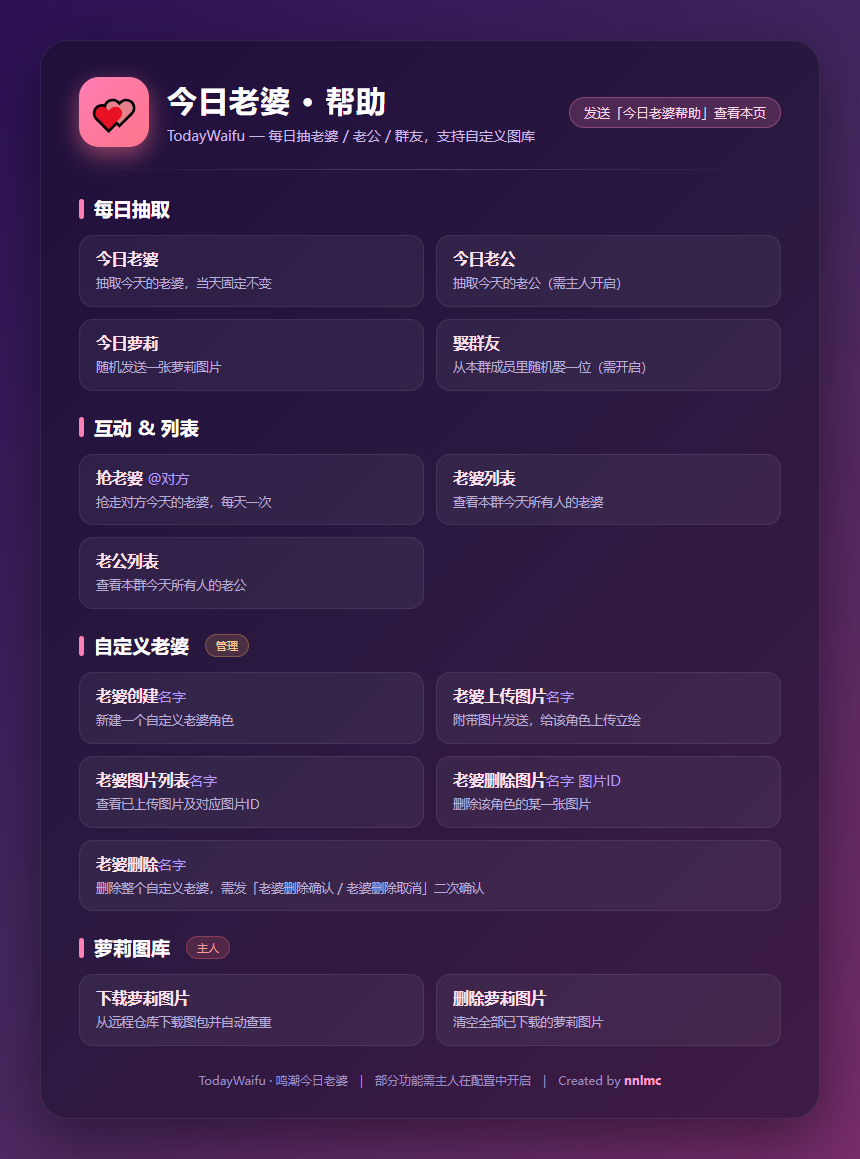
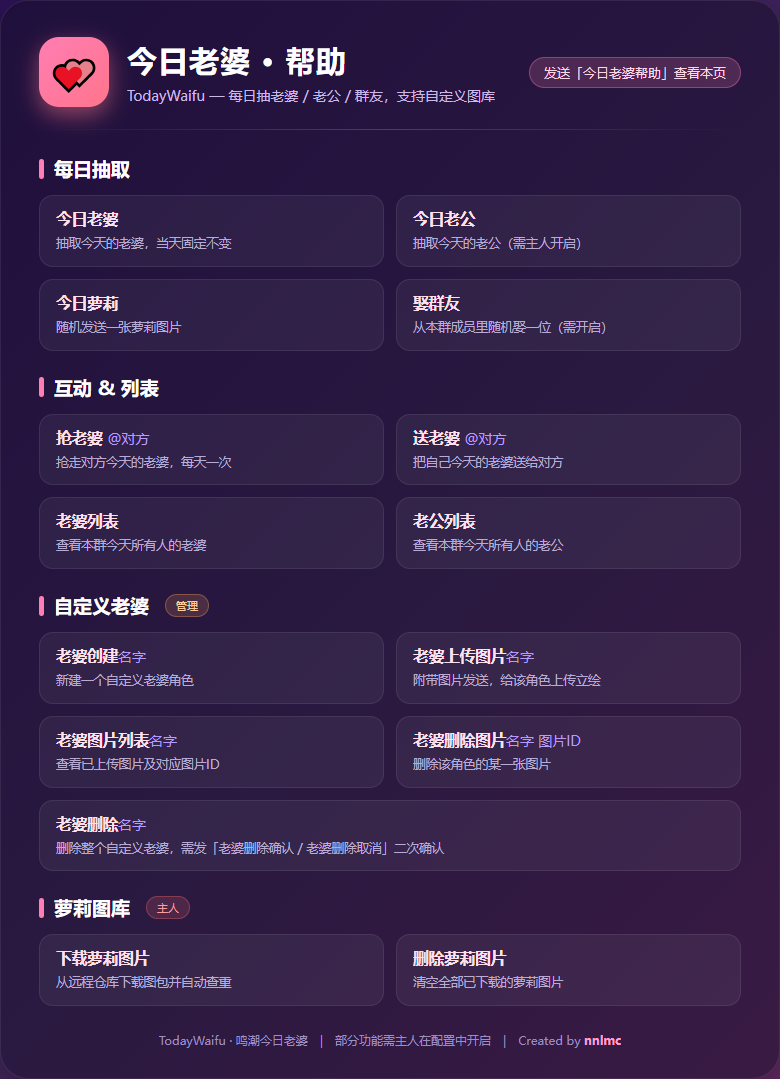
feat: 新增送老婆功能支持将今日老婆赠送给他人

diff --git a/__init__.py b/__init__.py
@@ -1430,6 +1430,14 @@ def _build_rob_success_text(role: RoleCandidate, target_user_id: str) -> str:
     )
 
 
+def _build_gift_success_text(role: RoleCandidate, target_user_id: str) -> str:
+    return str(_cfg('DailyWifeGiftSuccessTemplate') or '你把今天的老婆{name}送给了对方！').format(
+        name=role.name,
+        role_id='/'.join(role.role_ids),
+        target=target_user_id,
+    )
+
+
 def _build_text(role: RoleCandidate, mode: str = 'wife') -> str:
     if mode == 'husband':
         template = str(_cfg('DailyHusbandTextTemplate') or '你今天的老公是{name}')
@@ -1558,6 +1566,8 @@ async def _wife_list_items(ev: Event, mode: str = 'wife') -> tuple[str, list[tup
             order = 0
         if raw_record.get('stolen_by'):
             wife_name = '被抢走了~'
+        elif raw_record.get('gifted_to'):
+            wife_name = '送出去了~'
         else:
             wife_name = record.name
 
@@ -1715,6 +1725,12 @@ async def _send_daily_wife(bot: Bot, ev: Event, mode: str = 'wife', specified_na
             logger.info(f'{LOG_PREFIX} 用户 {ev.user_id} 的老婆已被抢，拒绝分配新角色')
             return await _send_prefixed(bot,f'你的{wife_name}已经被{stolen_by_name}抢走了，今天就先忍忍吧~')
 
+        if isinstance(current_record, dict) and current_record.get('gifted_to'):
+            wife_name = current_record.get('name', '老婆')
+            gifted_to_name = current_record.get('gifted_to_name') or current_record.get('gifted_to')
+            logger.info(f'{LOG_PREFIX} 用户 {ev.user_id} 的老婆已送出，拒绝分配新角色')
+            return await _send_prefixed(bot,f'你的{wife_name}已经送给{gifted_to_name}了，今天就先忍忍吧~')
+
     record: WifeRecord | None = None
 
     if is_debug_active:
@@ -1799,6 +1815,11 @@ async def _send_rob_wife(bot: Bot, ev: Event):
 
     data = _load_wife_data()
     context = _get_today_context(data, ev)
+
+    target_data = context['wives'].get(_user_key(ev, target_user_id))
+    if isinstance(target_data, dict) and target_data.get('gifted_to'):
+        return await _send_prefixed(bot, '对方的老婆已经送出去了，抢不到了哦~')
+
     attempts = context.setdefault('rob_attempts', {})
     is_master = _is_master(ev)
     
@@ -1828,6 +1849,55 @@ async def _send_rob_wife(bot: Bot, ev: Event):
     role = target_record.to_role()
     text = _build_rob_success_text(role, target_user_id)
     await _send_role_image(bot, role, target_record.image, text, robber_id)
+
+
+async def _send_gift_wife(bot: Bot, ev: Event):
+    logger.info(f'{LOG_PREFIX} 用户 {ev.user_id} 在群 {ev.group_id} 发起了送老婆操作')
+    if not _cfg_bool('DailyWifeGiftEnabled', True):
+        return await _send_prefixed(bot, '送老婆功能当前已关闭。')
+
+    target_user_id = _get_event_target_user_id(ev)
+    if not target_user_id:
+        return await _send_prefixed(bot, '要送给谁？请艾特对方或在命令后面写对方 QQ。')
+
+    giver_id = _user_key(ev)
+    if target_user_id == giver_id:
+        return await _send_prefixed(bot, '不能把老婆送给自己哦！')
+
+    giver_record = _get_existing_daily_wife_record(ev, giver_id)
+    if giver_record is None:
+        return await _send_prefixed(bot, '你今天还没有老婆，先去抽一个吧~')
+    if giver_record.record_type == 'member':
+        return await _send_prefixed(bot, '群友老婆不能送出去哦~')
+
+    data = _load_wife_data()
+    context = _get_today_context(data, ev)
+
+    giver_data = context['wives'].get(giver_id)
+    if isinstance(giver_data, dict) and giver_data.get('stolen_by'):
+        return await _send_prefixed(bot, '你的老婆已经被抢走了，没有老婆可以送了~')
+    if isinstance(giver_data, dict) and giver_data.get('gifted_to'):
+        return await _send_prefixed(bot, '你今天已经把老婆送出去了~')
+
+    target_existing = context['wives'].get(target_user_id)
+    if isinstance(target_existing, dict) and target_existing.get('name'):
+        if not target_existing.get('stolen_by') and not target_existing.get('gifted_to'):
+            return await _send_prefixed(bot, '对方今天已经有老婆了，不需要你送哦~')
+
+    logger.info(f'{LOG_PREFIX} 用户 {giver_id} 把老婆送给了 {target_user_id}')
+    context['wives'][target_user_id] = _record_to_dict(giver_record, ev, target_user_id)
+    context['wives'][target_user_id]['gifted_from'] = giver_id
+
+    giver_name = _user_display_name(ev, giver_id)
+    if isinstance(context['wives'].get(giver_id), dict):
+        context['wives'][giver_id]['gifted_to'] = target_user_id
+        context['wives'][giver_id]['gifted_to_name'] = _user_display_name(ev, target_user_id)
+
+    _save_wife_data(data)
+
+    role = giver_record.to_role()
+    text = _build_gift_success_text(role, target_user_id)
+    await _send_role_image(bot, role, giver_record.image, text, giver_id)
 
 
 async def _send_wife_list(bot: Bot, ev: Event, mode: str = 'wife'):
@@ -2077,6 +2147,16 @@ async def rob_wife(bot: Bot, ev: Event):
 @sv.on_fullmatch(('抢老婆', '抢今日老婆', '抢婆娘'), block=True)
 async def rob_wife_at(bot: Bot, ev: Event):
     await _send_rob_wife(bot, ev)
+
+
[email redacted]_prefix(('送老婆', '送今日老婆'), block=True)
+async def gift_wife(bot: Bot, ev: Event):
+    await _send_gift_wife(bot, ev)
+
+
[email redacted]_fullmatch(('送老婆', '送今日老婆'), block=True)
+async def gift_wife_at(bot: Bot, ev: Event):
+    await _send_gift_wife(bot, ev)
 
 
 # 注册到 GsCore 帮助一览页（core帮助）

diff --git a/config_default.py b/config_default.py
@@ -119,4 +119,14 @@ CONFIG_DEFAULT: Dict[str, GSC] = {
         '可用变量：{name} 角色名，{role_id} 数字 ID，{target} 被抢用户 ID',
         '抢老婆成功！你把对方今天的老婆{name}抢过来了！',
     ),
+    'DailyWifeGiftEnabled': GsBoolConfig(
+        '启用送老婆',
+        '开启后可使用「送老婆 @对方」命令，把自己今天的老婆送给对方',
+        True,
+    ),
+    'DailyWifeGiftSuccessTemplate': GsStrConfig(
+        '送老婆成功提示',
+        '可用变量：{name} 角色名，{role_id} 数字 ID，{target} 接收方用户 ID',
+        '你把今天的老婆{name}送给了对方！',
+    ),
 }

diff --git a/README.md b/README.md
@@ -17,6 +17,7 @@
 - `今日萝莉`：从本地萝莉图库随机发一张，与老婆/老公/群友完全独立。
 - `娶群友`：只抽群友，不依赖 XWUID。
 - `抢老婆 @对方`：抢走对方当天抽到的鸣潮角色老婆。
+- `送老婆 @对方`：把自己今天的老婆送给对方。
 - `老婆列表` / `老公列表`：查看本群当天记录。
 - `今日老婆帮助`：发送图文帮助卡片，并注册到 GSCore「core帮助」一览页。
 - 主人命令：创建 / 上传 / 查看 / 删除自定义老婆图片；下载 / 删除萝莉图库。
@@ -32,6 +33,7 @@
 | `今日萝莉` | 从萝莉图库随机发一张 | 需先由主人「下载萝莉图片」 |
 | `娶群友` | 只抽群友 | `DailyWifeMarryGroupMemberEnabled` |
 | `抢老婆 @对方` / `抢今日老婆` / `抢婆娘` | 抢对方当天老婆，每天一次 | `DailyWifeRobEnabled` |
+| `送老婆 @对方` / `送今日老婆` | 把自己今天的老婆送给对方 | `DailyWifeGiftEnabled` |
 | `老婆列表` / `今日老婆列表` | 查看本群今日老婆记录 | 无 |
 | `老公列表` / `今日老公列表` | 查看本群今日老公记录 | 无 |
 | `今日老婆帮助` | 发送图文帮助卡片 | 无 |
@@ -143,6 +145,7 @@ gsuid_core/data/XutheringWavesUID/resource/role_pile
 | 今日老婆 | 本地模式依赖；图库模式不依赖 | 本地读取角色图片，图库从接口获取 |
 | 今日老公 | 仅本地模式可用 | 图库模式下禁用并提示 |
 | 抢老婆 | 是 | 抢的是别人当天抽到的鸣潮角色老婆 |
+| 送老婆 | 是 | 送的是自己当天抽到的鸣潮角色老婆 |
 | 老婆列表 / 老公列表 | 间接依赖 | 记录来自抽取结果 |
 | 今日老婆概率抽群友 / 娶群友 | 否 | 使用 GSCore 群成员缓存和 QQ 头像 |
 | 今日萝莉 | 否 | 使用独立萝莉图库目录 |
@@ -168,8 +171,9 @@ gsuid_core/data/XutheringWavesUID/resource/role_pile
 | `DailyWifeHusbandEnabled` | 关闭 | 是否启用 `今日老公` |
 | `DailyWifeRobEnabled` | 开启 | 是否启用抢老婆 |
 | `DailyWifeRobSuccessRate` | `0.5` | 抢老婆成功概率 |
+| `DailyWifeGiftEnabled` | 开启 | 是否启用送老婆 |
 
-文字模板类配置（`DailyWifeTextTemplate` / `DailyHusbandTextTemplate` / `DailyWifeGroupMemberTextTemplate` / `DailyWifeMarryGroupMemberTextTemplate` / `DailyWifeRobSuccessTemplate`）可在控制台自定义提示文案，支持 `{name}`、`{role_id}`、`{user_id}`、`{target}` 等变量。
+文字模板类配置（`DailyWifeTextTemplate` / `DailyHusbandTextTemplate` / `DailyWifeGroupMemberTextTemplate` / `DailyWifeMarryGroupMemberTextTemplate` / `DailyWifeRobSuccessTemplate` / `DailyWifeGiftSuccessTemplate`）可在控制台自定义提示文案，支持 `{name}`、`{role_id}`、`{user_id}`、`{target}` 等变量。
 
 ## 帮助图自定义
 